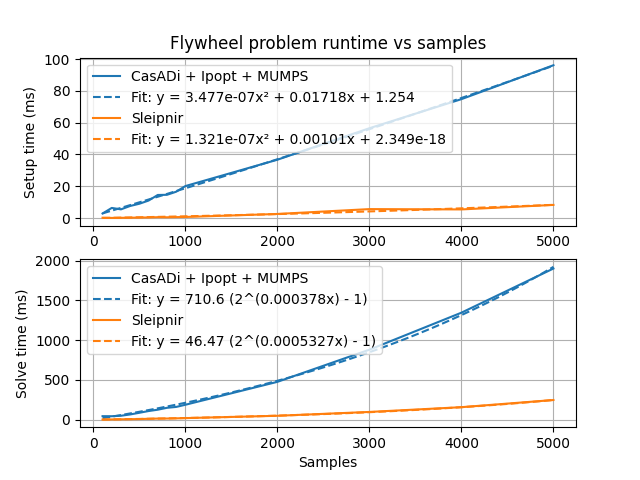
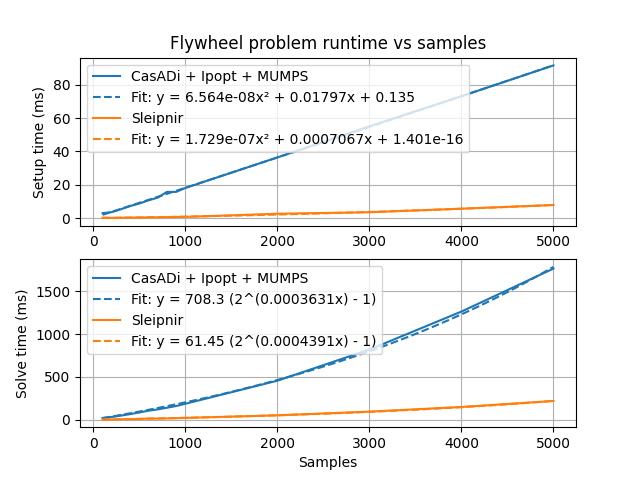
Implement autodiff linear system solver (#557)
Fixes #539.

diff --git a/src/autodiff/VariableMatrix.cpp b/src/autodiff/VariableMatrix.cpp
@@ -1,0 +1,78 @@
+// Copyright (c) Sleipnir contributors
+
+#include "sleipnir/autodiff/VariableMatrix.hpp"
+
+#include <Eigen/QR>
+
+namespace Eigen {
+
+template <>
+struct NumTraits<sleipnir::Variable> : NumTraits<double> {
+  using Real = sleipnir::Variable;
+  using NonInteger = sleipnir::Variable;
+  using Nested = sleipnir::Variable;
+
+  enum {
+    IsComplex = 0,
+    IsInteger = 0,
+    IsSigned = 1,
+    RequireInitialization = 1,
+    ReadCost = 1,
+    AddCost = 3,
+    MulCost = 3
+  };
+};
+
+}  // namespace Eigen
+
+// For Variable equality operator
+#include "sleipnir/optimization/Constraints.hpp"
+
+namespace sleipnir {
+
+VariableMatrix Solve(const VariableMatrix& A, const VariableMatrix& B) {
+  // m x n * n x p = m x p
+  Assert(A.Rows() == B.Rows());
+
+  if (A.Rows() == 2 && A.Cols() == 2) {
+    // Compute optimal inverse instead of using Eigen's general solver
+    sleipnir::VariableMatrix Ainv{2, 2};
+    Ainv(0, 0) = A(1, 1);
+    Ainv(0, 1) = -A(0, 1);
+    Ainv(1, 0) = -A(1, 0);
+    Ainv(1, 1) = A(0, 0);
+    auto detA = A(0, 0) * A(1, 1) - A(0, 1) * A(1, 0);
+    Ainv /= detA;
+
+    return Ainv * B;
+  } else {
+    using MatrixXvar = Eigen::Matrix<Variable, Eigen::Dynamic, Eigen::Dynamic>;
+
+    MatrixXvar eigenA{A.Rows(), A.Cols()};
+    for (int row = 0; row < A.Rows(); ++row) {
+      for (int col = 0; col < A.Cols(); ++col) {
+        eigenA(row, col) = A(row, col);
+      }
+    }
+
+    MatrixXvar eigenB{B.Rows(), B.Cols()};
+    for (int row = 0; row < B.Rows(); ++row) {
+      for (int col = 0; col < B.Cols(); ++col) {
+        eigenB(row, col) = B(row, col);
+      }
+    }
+
+    MatrixXvar eigenX = eigenA.householderQr().solve(eigenB);
+
+    VariableMatrix X{A.Cols(), B.Cols()};
+    for (int row = 0; row < X.Rows(); ++row) {
+      for (int col = 0; col < X.Cols(); ++col) {
+        X(row, col) = eigenX(row, col);
+      }
+    }
+
+    return X;
+  }
+}
+
+}  // namespace sleipnir

diff --git a/test/src/autodiff/VariableMatrixTest.cpp b/test/src/autodiff/VariableMatrixTest.cpp
@@ -203,3 +203,26 @@ TEST_CASE("VariableMatrix - Block() free function", "[VariableMatrix]") {
   CHECK(mat2.Cols() == 4);
   CHECK(mat2.Value() == expected2);
 }
+
+TEST_CASE("VariableMatrix - Solve() free function", "[VariableMatrix]") {
+  sleipnir::VariableMatrix A1{{1.0, 2.0}, {3.0, 4.0}};
+  sleipnir::VariableMatrix B1{{5.0}, {6.0}};
+  sleipnir::VariableMatrix X1 = sleipnir::Solve(A1, B1);
+
+  Eigen::Matrix<double, 2, 1> expected1{{-4.0}, {4.5}};
+  CHECK(X1.Rows() == 2);
+  CHECK(X1.Cols() == 1);
+  CHECK(A1.Value() * X1.Value() == B1.Value());
+  CHECK(X1.Value() == expected1);
+
+  sleipnir::VariableMatrix A2{
+      {1.0, 2.0, 3.0}, {-4.0, -5.0, 6.0}, {7.0, 8.0, 9.0}};
+  sleipnir::VariableMatrix B2{{10.0}, {11.0}, {12.0}};
+  sleipnir::VariableMatrix X2 = sleipnir::Solve(A2, B2);
+
+  Eigen::Matrix<double, 3, 1> expected2{{-7.5}, {6.0}, {11.0 / 6.0}};
+  CHECK(X2.Rows() == 3);
+  CHECK(X2.Cols() == 1);
+  CHECK((A2.Value() * X2.Value() - B2.Value()).norm() < 1e-12);
+  CHECK((X2.Value() - expected2).norm() < 1e-12);
+}

diff --git a/test/src/CartPoleUtil.cpp b/test/src/CartPoleUtil.cpp
@@ -82,10 +82,6 @@ sleipnir::VariableMatrix CartPoleDynamics(const sleipnir::VariableMatrix& x,
       {m_c + m_p, m_p * l * cos(theta)},              // NOLINT
       {m_p * l * cos(theta), m_p * std::pow(l, 2)}};  // NOLINT
 
-  auto detM = M(0, 0) * M(1, 1) - M(0, 1) * M(1, 0);
-  sleipnir::VariableMatrix Minv{{M(1, 1) / detM, -M(0, 1) / detM},
-                                {-M(1, 0) / detM, M(0, 0) / detM}};
-
   //           [0  −m_p lθ̇ sinθ]
   // C(q, q̇) = [0       0      ]
   sleipnir::VariableMatrix C{{0, -m_p * l * thetadot * sin(theta)},  // NOLINT
@@ -102,6 +98,6 @@ sleipnir::VariableMatrix CartPoleDynamics(const sleipnir::VariableMatrix& x,
   // q̈ = M⁻¹(q)(τ_g(q) − C(q, q̇)q̇ + Bu)
   sleipnir::VariableMatrix qddot{4};
   qddot.Segment(0, 2) = qdot;
-  qddot.Segment(2, 2) = Minv * (tau_g - C * qdot + B * u);
+  qddot.Segment(2, 2) = sleipnir::Solve(M, tau_g - C * qdot + B * u);
   return qddot;
 }

diff --git a/benchmarks/scalability/CartPole/Sleipnir.cpp b/benchmarks/scalability/CartPole/Sleipnir.cpp
@@ -52,14 +52,6 @@ sleipnir::VariableMatrix CartPoleDynamics(const sleipnir::VariableMatrix& x,
   M(1, 0) = m_p * l * cos(theta);  // NOLINT
   M(1, 1) = m_p * std::pow(l, 2);
 
-  sleipnir::VariableMatrix Minv{2, 2};
-  Minv(0, 0) = M(1, 1);
-  Minv(0, 1) = -M(0, 1);
-  Minv(1, 0) = -M(1, 0);
-  Minv(1, 1) = M(0, 0);
-  auto detM = M(0, 0) * M(1, 1) - M(0, 1) * M(1, 0);
-  Minv /= detM;
-
   //           [0  −m_p lθ̇ sinθ]
   // C(q, q̇) = [0       0      ]
   sleipnir::VariableMatrix C{2, 2};
@@ -81,7 +73,7 @@ sleipnir::VariableMatrix CartPoleDynamics(const sleipnir::VariableMatrix& x,
   // q̈ = M⁻¹(q)(τ_g(q) − C(q, q̇)q̇ + Bu)
   sleipnir::VariableMatrix qddot{4, 1};
   qddot.Segment(0, 2) = qdot;
-  qddot.Segment(2, 2) = Minv * (tau_g - C * qdot + B * u);
+  qddot.Segment(2, 2) = sleipnir::Solve(M, tau_g - C * qdot + B * u);
   return qddot;
 }
 

diff --git a/benchmarks/scalability/CartPole/CasADi.cpp b/benchmarks/scalability/CartPole/CasADi.cpp
@@ -51,14 +51,6 @@ casadi::MX CartPoleDynamics(const casadi::MX& x, const casadi::MX& u) {
   M(1, 0) = m_p * l * cos(theta);  // NOLINT
   M(1, 1) = m_p * std::pow(l, 2);
 
-  casadi::MX Minv{2, 2};
-  Minv(0, 0) = M(1, 1);
-  Minv(0, 1) = -M(0, 1);
-  Minv(1, 0) = -M(1, 0);
-  Minv(1, 1) = M(0, 0);
-  auto detM = M(0, 0) * M(1, 1) - M(0, 1) * M(1, 0);
-  Minv /= detM;
-
   //           [0  −m_p lθ̇ sinθ]
   // C(q, q̇) = [0       0      ]
   casadi::MX C{2, 2};
@@ -82,8 +74,7 @@ casadi::MX CartPoleDynamics(const casadi::MX& x, const casadi::MX& u) {
   // q̈ = M⁻¹(q)(τ_g(q) − C(q, q̇)q̇ + Bu)
   casadi::MX qddot{4, 1};
   qddot(casadi::Slice{0, 2}) = qdot;
-  qddot(casadi::Slice{2, 4}) =
-      mtimes(Minv, tau_g - mtimes(C, qdot) + mtimes(B, u));
+  qddot(casadi::Slice{2, 4}) = solve(M, tau_g - mtimes(C, qdot) + mtimes(B, u));
   return qddot;
 }
 

diff --git a/jormungandr/test/autodiff/variable_matrix_test.py b/jormungandr/test/autodiff/variable_matrix_test.py
@@ -177,3 +177,23 @@ def test_block_free_function():
     )
     assert mat2.shape == (3, 4)
     assert (mat2.value() == expected2).all()
+
+
+def test_solve_free_function():
+    A1 = VariableMatrix([[1.0, 2.0], [3.0, 4.0]])
+    B1 = VariableMatrix([[5.0], [6.0]])
+    X1 = autodiff.solve(A1, B1)
+
+    expected1 = np.array([[-4.0], [4.5]])
+    assert X1.shape == (2, 1)
+    assert (A1.value() @ X1.value() == B1.value()).all()
+    assert (X1.value() == expected1).all()
+
+    A2 = VariableMatrix([[1.0, 2.0, 3.0], [-4.0, -5.0, 6.0], [7.0, 8.0, 9.0]])
+    B2 = VariableMatrix([[10.0], [11.0], [12.0]])
+    X2 = autodiff.solve(A2, B2)
+
+    expected2 = np.array([[-7.5], [6.0], [11.0 / 6.0]])
+    assert X2.shape == (3, 1)
+    assert np.linalg.norm(A2.value() @ X2.value() - B2.value()) < 1e-12
+    assert np.linalg.norm(X2.value() - expected2) < 1e-12

diff --git a/jormungandr/test/optimization/optimization_problem_cart_pole_test.py b/jormungandr/test/optimization/optimization_problem_cart_pole_test.py
@@ -102,11 +102,6 @@ def cart_pole_dynamics(x, u):
         ]
     )
 
-    detM = M[0, 0] * M[1, 1] - M[0, 1] * M[1, 0]
-    Minv = VariableMatrix(
-        [[M[1, 1] / detM, -M[0, 1] / detM], [-M[1, 0] / detM, M[0, 0] / detM]]
-    )
-
     #           [0  −m_p lθ̇ sinθ]
     # C(q, q̇) = [0       0      ]
     C = VariableMatrix(
@@ -127,7 +122,7 @@ def cart_pole_dynamics(x, u):
     # q̈ = M⁻¹(q)(τ_g(q) − C(q, q̇)q̇ + Bu)
     qddot = VariableMatrix(4, 1)
     qddot[:2, :] = qdot
-    qddot[2:, :] = Minv @ (tau_g - C @ qdot + B @ u)
+    qddot[2:, :] = autodiff.solve(M, tau_g - C @ qdot + B @ u)
     return qddot
 
 

diff --git a/jormungandr/cpp/autodiff/BindVariableMatrix.cpp b/jormungandr/cpp/autodiff/BindVariableMatrix.cpp
@@ -570,6 +570,11 @@ void BindVariableMatrix(py::module_& autodiff,
       static_cast<VariableMatrix (*)(std::vector<std::vector<VariableMatrix>>)>(
           &Block),
       "list"_a, DOC(sleipnir, Block));
+
+  autodiff.def("solve",
+               static_cast<VariableMatrix (*)(const VariableMatrix&,
+                                              const VariableMatrix&)>(&Solve),
+               "A"_a, "B"_a, DOC(sleipnir, Solve));
 }  // NOLINT(readability/fn_size)
 
 }  // namespace sleipnir

diff --git a/jormungandr/cpp/Docstrings.hpp b/jormungandr/cpp/Docstrings.hpp
@@ -690,6 +690,18 @@ Parameter ``t0``:
 Parameter ``dt``:
     The time over which to integrate.)doc";
 
+static const char *__doc_sleipnir_Solve =
+R"doc(Solves the VariableMatrix equation AX = B for X.
+
+Parameter ``A``:
+    The left-hand side.
+
+Parameter ``B``:
+    The right-hand side.
+
+Returns:
+    The solution X.)doc";
+
 static const char *__doc_sleipnir_SolverConfig = R"doc(Solver configuration.)doc";
 
 static const char *__doc_sleipnir_SolverConfig_acceptableTolerance =

diff --git a/include/sleipnir/autodiff/VariableMatrix.hpp b/include/sleipnir/autodiff/VariableMatrix.hpp
@@ -1020,4 +1020,14 @@ SLEIPNIR_DLLEXPORT inline VariableMatrix Block(
   return result;
 }
 
+/**
+ * Solves the VariableMatrix equation AX = B for X.
+ *
+ * @param A The left-hand side.
+ * @param B The right-hand side.
+ * @return The solution X.
+ */
+SLEIPNIR_DLLEXPORT VariableMatrix Solve(const VariableMatrix& A,
+                                        const VariableMatrix& B);
+
 }  // namespace sleipnir
